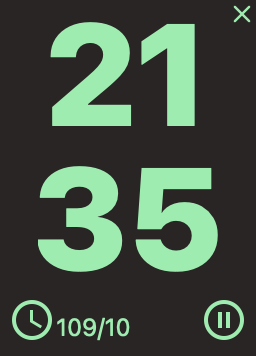
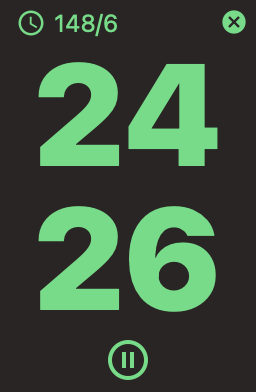
升级到 0.7.0 版本,优化了界面的排版,增加appbar和footbar布局

diff --git a/src/App.svelte b/src/App.svelte
@@ -1,10 +1,4 @@
 <script lang="ts">
-  import OperactionCom from './components/OperactionCom.svelte'
-  import RefreshCom from './components/RefreshCom.svelte'
-  import TimeCounterCom from './components/TimeCounterCom.svelte'
-  import TodayCountCom from './components/TodayCountCom.svelte'
-  import Close from "svelte-material-icons/Close.svelte";
-  import { appWindow } from '@tauri-apps/api/window'
   import { action, today, workType } from './store/store';
   import { onDestroy, onMount } from 'svelte';
   import { DefaultWorkDuration, Keys, MagicNumber, Tasks, dataJsonURL, diAudioPaths, endAudioPaths } from './config';
@@ -14,6 +8,9 @@
   import { convertFileSrc } from "@tauri-apps/api/tauri";
   import { addAudio, addEndAudio } from './utils';
   import { ClassContainer, TextColors } from './style';
+  import Footbar from './components/footbar.svelte';
+  import TimeCounter from './components/time-counter.svelte';
+  import Appbar from './components/appbar.svelte';
 
   onMount(async () => {
     action.initData(
@@ -27,7 +24,7 @@
     initItem(Keys.defaultWorkDuration, data.defaultWorkDuration.toString())
     initItem(Keys.defaultBreakDuration, data.defaultBreakDuration.toString())
 
-    for (let v of diAudioPaths) {
+    for (const v of diAudioPaths) {
       // console.log("path: ", v)
       const audioPath = await resolveResource(v)
       const audio = new Audio(convertFileSrc(audioPath))
@@ -35,7 +32,7 @@
       addAudio(v, audio)
     }
 
-    for (let v of endAudioPaths) {
+    for (const v of endAudioPaths) {
       const audioPath = await resolveResource(v)
       addEndAudio(v, new Audio(convertFileSrc(audioPath)))
     }
@@ -64,17 +61,7 @@
 </script>
 
 <div class="{mainStyle}">
-  <div class="cursor-pointer absolute right-0" on:click={() => appWindow.close() }>
-    <Close size={14} />
-  </div>
-  <div class="flex flex-col">
-    <TimeCounterCom />
-    <div class="flex flex-row justify-center mt-1">
-      <TodayCountCom />
-      <div class="flex flex-row flex-1 grow justify-end space-x-1 mr-1">
-        <RefreshCom />
-        <OperactionCom />
-      </div>
-    </div>
-  </div>
+  <Appbar />
+  <TimeCounter />
+  <Footbar />
 </div>

diff --git a/src/components/pomodoro-count.svelte b/src/components/pomodoro-count.svelte
@@ -1,7 +1,7 @@
 <script lang="ts">
   import ClockOutline from "svelte-material-icons/ClockOutline.svelte";
   import CoffeeOutline from "svelte-material-icons/CoffeeOutline.svelte";
-  import { IconSize, WorkType } from '../config';
+  import { WorkType } from '../config';
   import { today, total, workType } from "../store/store";
   import { changeAudio, playAudio } from "../utils";
 
@@ -16,10 +16,10 @@
 <div class="flex flex-row flex-none ml-1">
   <div on:click={change}>
 {#if $workType === WorkType.Work}
-  <ClockOutline class="cursor-pointer" size="{IconSize}" />
+  <ClockOutline class="cursor-pointer" size="{15}" />
 {:else}
-  <CoffeeOutline class="cursor-pointer" size="{IconSize}" />
+  <CoffeeOutline class="cursor-pointer" size="{15}" />
 {/if}
   </div>
-  <span class="text-xs pt-2">{ $total }/{ $today }</span>
+  <span class="text-xs ml-1 pt-0">{ $total }/{ $today }</span>
 </div>

diff --git a/src/components/appbar.svelte b/src/components/appbar.svelte
@@ -1,0 +1,20 @@
+<script lang="ts">
+  import { appWindow } from "@tauri-apps/api/window";
+  import PomodoroCount from "./pomodoro-count.svelte";
+  import RefreshButton from "./refresh-button.svelte";
+  import Close from "svelte-material-icons/CloseCircle.svelte";
+
+  //
+</script>
+
+<div class="flex flex-row justify-between">
+  <div class="ml-1 mt-1">
+    <PomodoroCount />
+  </div>
+  <div class="flex flex-row justify-end mt-1 space-x-1 mr-1">
+    <RefreshButton />
+    <div class="cursor-pointer" on:click={() => appWindow.close() }>
+      <Close size={14} />
+    </div>
+  </div>
+</div>

diff --git a/src/components/operation-button.svelte b/src/components/operation-button.svelte
@@ -4,7 +4,7 @@
   import { Status, IconSize, INTERVAL } from "../config";
   import { action, status, timer } from "../store/store";
   import { onDestroy } from "svelte";
-    import { playAudio, playEndAudio } from "../utils";
+  import { playAudio, playEndAudio } from "../utils";
 
   console.log("render Operaction")
 

diff --git a/src/components/refresh-button.svelte b/src/components/refresh-button.svelte
@@ -8,6 +8,6 @@
 
 <div on:click={action.reset}>
 {#if $status === Status.Pause || $workType === WorkType.Break}
-  <RefreshCircle class="cursor-pointer" size={IconSize} />
+  <RefreshCircle class="cursor-pointer" size={14} />
 {/if}
 </div>

diff --git a/src/components/footbar.svelte b/src/components/footbar.svelte
@@ -1,0 +1,7 @@
+<script lang="ts">
+  import OperationButton from "./operation-button.svelte";
+</script>
+
+<div class="flex flex-row justify-center space-x-1 mt-1">
+  <OperationButton />
+</div>

diff --git a/src-tauri/src/main.rs b/src-tauri/src/main.rs
@@ -22,8 +22,8 @@ fn main() {
             Ok(())
         })
         .invoke_handler(tauri::generate_handler![greet])
-        // .menu(tauri::Menu::os_default(&context.package_info().name))
-        .menu(Menu::default())
+        .menu(Menu::os_default(&context.package_info().name))
+        // .menu(Menu::default())
         .system_tray(tray::menu())
         .on_system_tray_event(tray::handler)
         .run(context)

diff --git a/README.md b/README.md
@@ -9,9 +9,9 @@ A simple pomodoro timer write in Tauri and Svelte.
 
 ## Screenshots
 
-<img src="./screenshots/screenshot.png" width="140" height="184" alt="Screenshot of Pomodoro">
+<img src="./screenshots/screenshot.png" width="128" height="196" alt="Screenshot of Pomodoro">
 
-<img src="./screenshots/screenshot_break.png" width="140" height="184" alt="Screenshot of Pomodoro">
+<img src="./screenshots/screenshot_break.png" width="128" height="196" alt="Screenshot of Pomodoro">
 
 # Tauri + Svelte + Typescript
 
@@ -25,7 +25,7 @@ This template should help get you started developing with Tauri, Svelte and Type
 ## Install Tauri support
 
 ```bash
-pnpm install
+pnpm i
 ```
 
 ## Run project
